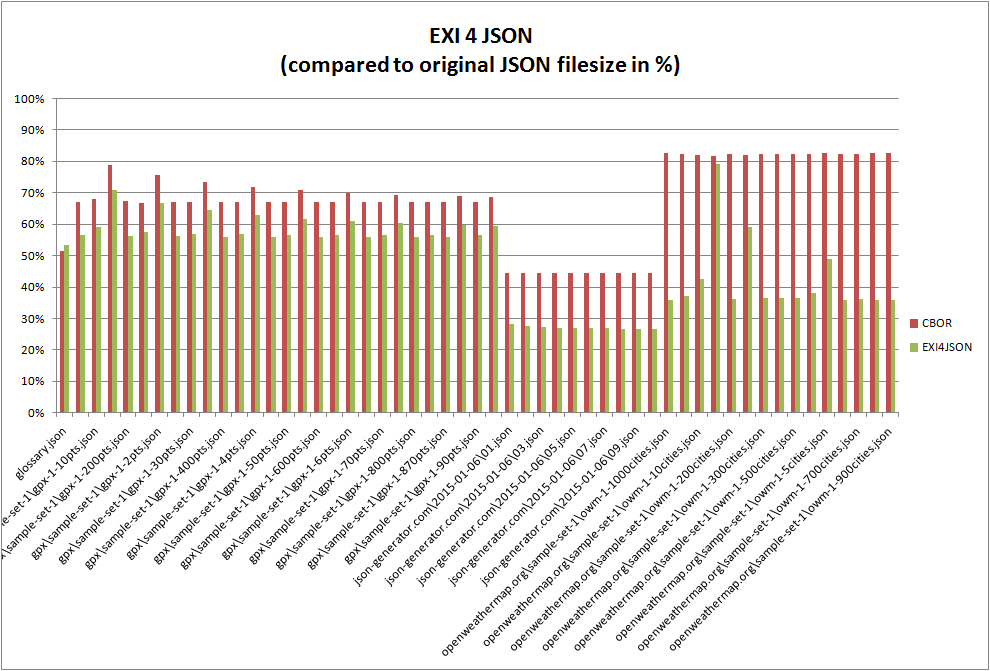
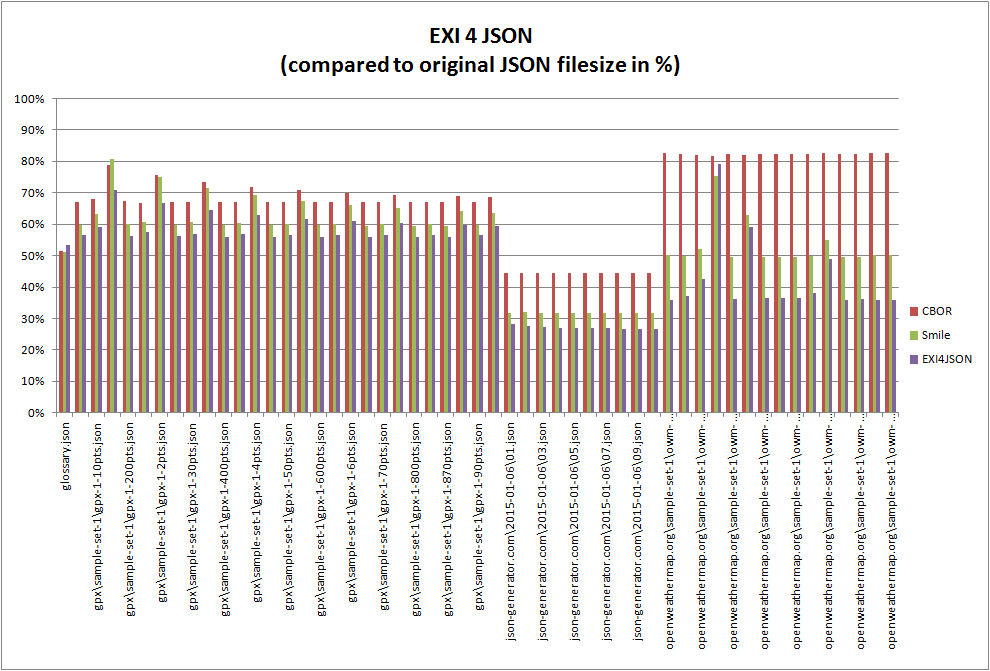
add comparison with Smile as suggested in https://github.com/EXIficient/exificient-for-json/issues/4

Changed region(s): [[0.0, 0.2385, 1.0, 0.9836]]

diff --git a/src/test/java/com/siemens/ct/exi/json/JSONBinaryComparisons.java b/src/test/java/com/siemens/ct/exi/json/JSONBinaryComparisons.java
@@ -12,6 +12,7 @@ import java.util.List;
 import com.fasterxml.jackson.databind.JsonNode;
 import com.fasterxml.jackson.databind.ObjectMapper;
 import com.fasterxml.jackson.dataformat.cbor.CBORFactory;
+import com.fasterxml.jackson.dataformat.smile.SmileFactory;
 import com.siemens.ct.exi.exceptions.EXIException;
 
 public class JSONBinaryComparisons {
@@ -41,6 +42,24 @@ public class JSONBinaryComparisons {
 
 		return baos.toByteArray();
 	}
+	
+	public static byte[] encodeSmile(InputStream json) throws EXIException, IOException {
+		SmileFactory f = new SmileFactory();
+
+		ObjectMapper mapperJson = new ObjectMapper();
+		ObjectMapper mapperCbor = new ObjectMapper(f);
+		JsonNode node = mapperJson.readValue(json, JsonNode.class);
+
+		ByteArrayOutputStream baos = new ByteArrayOutputStream();
+		mapperCbor.writeTree(f.createGenerator(baos), node);
+
+		// System.out.println("Smile " + baos.size());
+
+		@SuppressWarnings("unused")
+		JsonNode node2 = mapperCbor.readTree(baos.toByteArray());
+
+		return baos.toByteArray();
+	}
 
 	public static List<File> getFilesForFolder(final File folder, String suffix, boolean recursive) {
 		List<File> files = new ArrayList<File>();
@@ -49,7 +68,7 @@ public class JSONBinaryComparisons {
 	}
 
 	public static void test(List<File> files, PrintStream ps) throws EXIException, IOException {
-		ps.println("TestCase; JSON; CBOR; EXI4JSON");
+		ps.println("TestCase; JSON; CBOR; Smile; EXI4JSON");
 
 		for (File fj : files) {
 			test(fj, ps);
@@ -61,6 +80,12 @@ public class JSONBinaryComparisons {
 		{
 			InputStream isJSON = new FileInputStream(f);
 			sizeCBOR = encodeCBOR(isJSON).length;
+			isJSON.close();
+		}
+		int sizeSmile;
+		{
+			InputStream isJSON = new FileInputStream(f);
+			sizeSmile = encodeSmile(isJSON).length;
 			isJSON.close();
 		}
 		int sizeEXI4JSON;
@@ -77,7 +102,7 @@ public class JSONBinaryComparisons {
 			name = name.substring(fl.getAbsolutePath().length() + 1);
 		}
 
-		ps.println(name + "; " + f.length() + "; " + sizeCBOR + "; " + sizeEXI4JSON);
+		ps.println(name + "; " + f.length() + "; " + sizeCBOR + "; " + sizeSmile + "; "+ sizeEXI4JSON);
 	}
 
 	private static void addFilesForFolder(List<File> files, final File folder, String suffix, boolean recursive) {

diff --git a/README.md b/README.md
@@ -8,61 +8,62 @@ EXI for JSON - How EXI can be used to represent JSON data efficiently (see <http
 
 See test-data in https://github.com/EXIficient/exificient-for-json/tree/master/src/test/resources.
 
-| TestCase                                              |       JSON [Size in Bytes] |      CBOR [Size in Bytes] |  EXI4JSON [Size in Bytes] |
-|-------------------------------------------------------|-----------:|----------:|----------:|
-| glossary.json                                         |        605 |       311 |       322 |
-| gpx\sample-set-1\gpx-1-100pts.json                    |     11.007 |     7.378 |     6.210 |
-| gpx\sample-set-1\gpx-1-10pts.json                     |      1.318 |       898 |       778 |
-| gpx\sample-set-1\gpx-1-1pts.json                      |        314 |       248 |       223 |
-| gpx\sample-set-1\gpx-1-200pts.json                    |     21.661 |    14.578 |    12.179 |
-| gpx\sample-set-1\gpx-1-20pts.json                     |      2.424 |     1.618 |     1.395 |
-| gpx\sample-set-1\gpx-1-2pts.json                      |        426 |       322 |       284 |
-| gpx\sample-set-1\gpx-1-300pts.json                    |     32.452 |    21.778 |    18.216 |
-| gpx\sample-set-1\gpx-1-30pts.json                     |      3.480 |     2.338 |     1.984 |
-| gpx\sample-set-1\gpx-1-3pts.json                      |        537 |       394 |       346 |
-| gpx\sample-set-1\gpx-1-400pts.json                    |     43.257 |    28.978 |    24.239 |
-| gpx\sample-set-1\gpx-1-40pts.json                     |      4.562 |     3.058 |     2.588 |
-| gpx\sample-set-1\gpx-1-4pts.json                      |        648 |       466 |       408 |
-| gpx\sample-set-1\gpx-1-500pts.json                    |     53.988 |    36.178 |    30.256 |
-| gpx\sample-set-1\gpx-1-50pts.json                     |      5.634 |     3.778 |     3.191 |
-| gpx\sample-set-1\gpx-1-5pts.json                      |        760 |       538 |       469 |
-| gpx\sample-set-1\gpx-1-600pts.json                    |     64.758 |    43.378 |    36.284 |
-| gpx\sample-set-1\gpx-1-60pts.json                     |      6.720 |     4.498 |     3.801 |
-| gpx\sample-set-1\gpx-1-6pts.json                      |        872 |       610 |       531 |
-| gpx\sample-set-1\gpx-1-700pts.json                    |     75.518 |    50.578 |    42.285 |
-| gpx\sample-set-1\gpx-1-70pts.json                     |      7.778 |     5.218 |     4.396 |
-| gpx\sample-set-1\gpx-1-7pts.json                      |        983 |       682 |       593 |
-| gpx\sample-set-1\gpx-1-800pts.json                    |     86.292 |    57.778 |    48.293 |
-| gpx\sample-set-1\gpx-1-80pts.json                     |      8.859 |     5.938 |     5.000 |
-| gpx\sample-set-1\gpx-1-870pts.json                    |     93.786 |    62.818 |    52.476 |
-| gpx\sample-set-1\gpx-1-8pts.json                      |      1.094 |       754 |       655 |
-| gpx\sample-set-1\gpx-1-90pts.json                     |      9.942 |     6.658 |     5.609 |
-| gpx\sample-set-1\gpx-1-9pts.json                      |      1.206 |       826 |       716 |
-| json-generator.com\2015-01-06\01.json                 |  1.103.353 |   490.133 |   310.012 |
-| json-generator.com\2015-01-06\02.json                 |  2.203.693 |   979.469 |   606.056 |
-| json-generator.com\2015-01-06\03.json                 |  3.238.056 | 1.438.370 |   881.484 |
-| json-generator.com\2015-01-06\04.json                 |  4.320.187 | 1.918.771 | 1.168.143 |
-| json-generator.com\2015-01-06\05.json                 |  5.425.885 | 2.409.849 | 1.461.451 |
-| json-generator.com\2015-01-06\06.json                 |  6.509.681 | 2.890.828 | 1.749.445 |
-| json-generator.com\2015-01-06\07.json                 |  7.620.054 | 3.383.755 | 2.044.025 |
-| json-generator.com\2015-01-06\08.json                 |  8.880.856 | 3.943.588 | 2.379.084 |
-| json-generator.com\2015-01-06\09.json                 |  9.982.416 | 4.433.013 | 2.672.229 |
-| json-generator.com\2015-01-06\10.json                 | 11.080.993 | 4.920.626 | 2.965.358 |
-| openweathermap.org\sample-set-1\owm-1-1000cities.json |    622.540 |   514.167 |   223.442 |
-| openweathermap.org\sample-set-1\owm-1-100cities.json  |     62.024 |    51.074 |    23.032 |
-| openweathermap.org\sample-set-1\owm-1-10cities.json   |      6.170 |     5.069 |     2.629 |
-| openweathermap.org\sample-set-1\owm-1-1cities.json    |        615 |       502 |       486 |
-| openweathermap.org\sample-set-1\owm-1-200cities.json  |    123.811 |   101.857 |    44.954 |
-| openweathermap.org\sample-set-1\owm-1-2cities.json    |      1.231 |     1.011 |       726 |
-| openweathermap.org\sample-set-1\owm-1-300cities.json  |    185.699 |   152.787 |    67.573 |
-| openweathermap.org\sample-set-1\owm-1-400cities.json  |    247.718 |   203.877 |    90.258 |
-| openweathermap.org\sample-set-1\owm-1-500cities.json  |    309.532 |   254.791 |   112.848 |
-| openweathermap.org\sample-set-1\owm-1-50cities.json   |     31.048 |    25.557 |    11.820 |
-| openweathermap.org\sample-set-1\owm-1-5cities.json    |      3.136 |     2.587 |     1.535 |
-| openweathermap.org\sample-set-1\owm-1-600cities.json  |    371.839 |   306.314 |   133.633 |
-| openweathermap.org\sample-set-1\owm-1-700cities.json  |    433.746 |   357.313 |   156.390 |
-| openweathermap.org\sample-set-1\owm-1-800cities.json  |    498.084 |   411.365 |   179.022 |
-| openweathermap.org\sample-set-1\owm-1-900cities.json  |    560.315 |   462.826 |   201.229 |
+| TestCase                                              | JSON [Size in Bytes]    | CBOR [Size in Bytes]   | Smile [Size in Bytes]   | EXI4JSON [Size in Bytes] |
+|-------------------------------------------------------|----------|---------|---------|----------|
+| glossary.json                                         | 605      | 311     | 309     | 322      |
+| gpx\sample-set-1\gpx-1-100pts.json                    | 11007    | 7378    | 6592    | 6210     |
+| gpx\sample-set-1\gpx-1-10pts.json                     | 1318     | 898     | 832     | 778      |
+| gpx\sample-set-1\gpx-1-1pts.json                      | 314      | 248     | 254     | 223      |
+| gpx\sample-set-1\gpx-1-200pts.json                    | 21661    | 14578   | 12992   | 12179    |
+| gpx\sample-set-1\gpx-1-20pts.json                     | 2424     | 1618    | 1472    | 1395     |
+| gpx\sample-set-1\gpx-1-2pts.json                      | 426      | 322     | 320     | 284      |
+| gpx\sample-set-1\gpx-1-300pts.json                    | 32452    | 21778   | 19392   | 18216    |
+| gpx\sample-set-1\gpx-1-30pts.json                     | 3480     | 2338    | 2112    | 1984     |
+| gpx\sample-set-1\gpx-1-3pts.json                      | 537      | 394     | 384     | 346      |
+| gpx\sample-set-1\gpx-1-400pts.json                    | 43257    | 28978   | 25792   | 24239    |
+| gpx\sample-set-1\gpx-1-40pts.json                     | 4562     | 3058    | 2752    | 2588     |
+| gpx\sample-set-1\gpx-1-4pts.json                      | 648      | 466     | 448     | 408      |
+| gpx\sample-set-1\gpx-1-500pts.json                    | 53988    | 36178   | 32192   | 30256    |
+| gpx\sample-set-1\gpx-1-50pts.json                     | 5634     | 3778    | 3392    | 3191     |
+| gpx\sample-set-1\gpx-1-5pts.json                      | 760      | 538     | 512     | 469      |
+| gpx\sample-set-1\gpx-1-600pts.json                    | 64758    | 43378   | 38592   | 36284    |
+| gpx\sample-set-1\gpx-1-60pts.json                     | 6720     | 4498    | 4032    | 3801     |
+| gpx\sample-set-1\gpx-1-6pts.json                      | 872      | 610     | 576     | 531      |
+| gpx\sample-set-1\gpx-1-700pts.json                    | 75518    | 50578   | 44992   | 42285    |
+| gpx\sample-set-1\gpx-1-70pts.json                     | 7778     | 5218    | 4672    | 4396     |
+| gpx\sample-set-1\gpx-1-7pts.json                      | 983      | 682     | 640     | 593      |
+| gpx\sample-set-1\gpx-1-800pts.json                    | 86292    | 57778   | 51392   | 48293    |
+| gpx\sample-set-1\gpx-1-80pts.json                     | 8859     | 5938    | 5312    | 5000     |
+| gpx\sample-set-1\gpx-1-870pts.json                    | 93786    | 62818   | 55872   | 52476    |
+| gpx\sample-set-1\gpx-1-8pts.json                      | 1094     | 754     | 704     | 655      |
+| gpx\sample-set-1\gpx-1-90pts.json                     | 9942     | 6658    | 5952    | 5609     |
+| gpx\sample-set-1\gpx-1-9pts.json                      | 1206     | 826     | 768     | 716      |
+| json-generator.com\2015-01-06\01.json                 | 1103353  | 490133  | 351756  | 310012   |
+| json-generator.com\2015-01-06\02.json                 | 2203693  | 979469  | 703115  | 606056   |
+| json-generator.com\2015-01-06\03.json                 | 3238056  | 1438370 | 1032056 | 881484   |
+| json-generator.com\2015-01-06\04.json                 | 4320187  | 1918771 | 1376620 | 1168143  |
+| json-generator.com\2015-01-06\05.json                 | 5425885  | 2409849 | 1728913 | 1461451  |
+| json-generator.com\2015-01-06\06.json                 | 6509681  | 2890828 | 2073670 | 1749445  |
+| json-generator.com\2015-01-06\07.json                 | 7620054  | 3383755 | 2427181 | 2044025  |
+| json-generator.com\2015-01-06\08.json                 | 8880856  | 3943588 | 2828669 | 2379084  |
+| json-generator.com\2015-01-06\09.json                 | 9982416  | 4433013 | 3179808 | 2672229  |
+| json-generator.com\2015-01-06\10.json                 | 11080993 | 4920626 | 3529384 | 2965358  |
+| openweathermap.org\sample-set-1\owm-1-1000cities.json | 622540   | 514167  | 311697  | 223442   |
+| openweathermap.org\sample-set-1\owm-1-100cities.json  | 62024    | 51074   | 30877   | 23032    |
+| openweathermap.org\sample-set-1\owm-1-10cities.json   | 6170     | 5069    | 3205    | 2629     |
+| openweathermap.org\sample-set-1\owm-1-1cities.json    | 615      | 502     | 464     | 486      |
+| openweathermap.org\sample-set-1\owm-1-200cities.json  | 123811   | 101857  | 61272   | 44954    |
+| openweathermap.org\sample-set-1\owm-1-2cities.json    | 1231     | 1011    | 773     | 726      |
+| openweathermap.org\sample-set-1\owm-1-300cities.json  | 185699   | 152787  | 91855   | 67573    |
+| openweathermap.org\sample-set-1\owm-1-400cities.json  | 247718   | 203877  | 122640  | 90258    |
+| openweathermap.org\sample-set-1\owm-1-500cities.json  | 309532   | 254791  | 153303  | 112848   |
+| openweathermap.org\sample-set-1\owm-1-50cities.json   | 31048    | 25557   | 15534   | 11820    |
+| openweathermap.org\sample-set-1\owm-1-5cities.json    | 3136     | 2587    | 1728    | 1535     |
+| openweathermap.org\sample-set-1\owm-1-600cities.json  | 371839   | 306314  | 184489  | 133633   |
+| openweathermap.org\sample-set-1\owm-1-700cities.json  | 433746   | 357313  | 215231  | 156390   |
+| openweathermap.org\sample-set-1\owm-1-800cities.json  | 498084   | 411365  | 249407  | 179022   |
+| openweathermap.org\sample-set-1\owm-1-900cities.json  | 560315   | 462826  | 280620  | 201229   |
+
 
 On average "EXI4JSON" is about 48% of the original JSON filesize!
 On average "EXI4JSON" is about 50% smaller than the CBOR binary encoded file!
